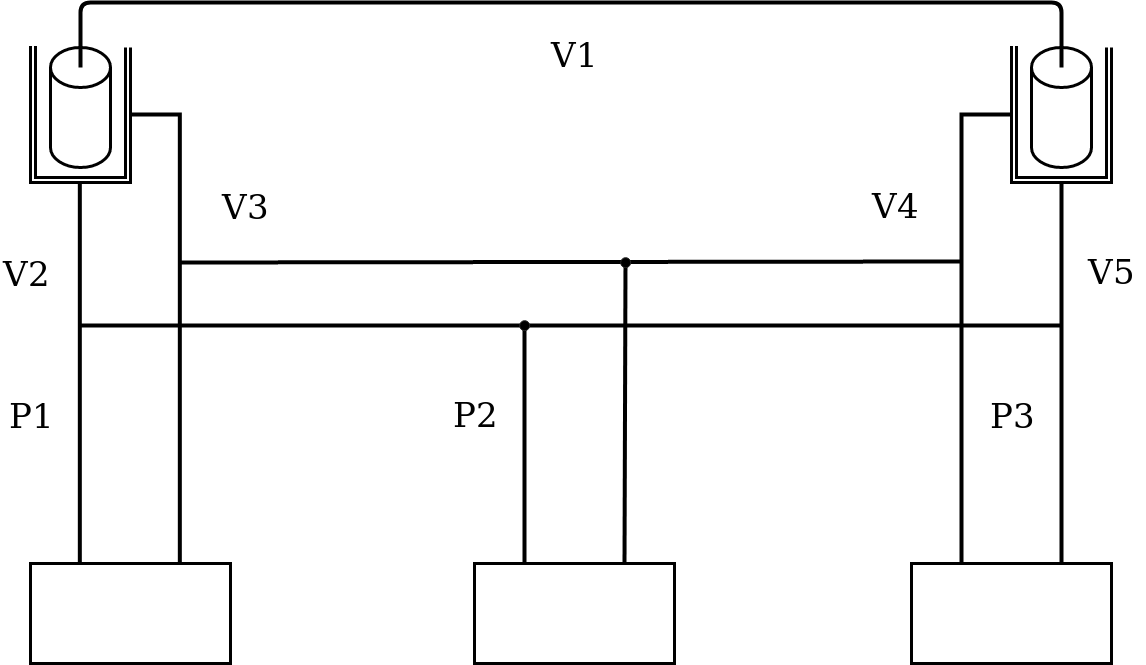
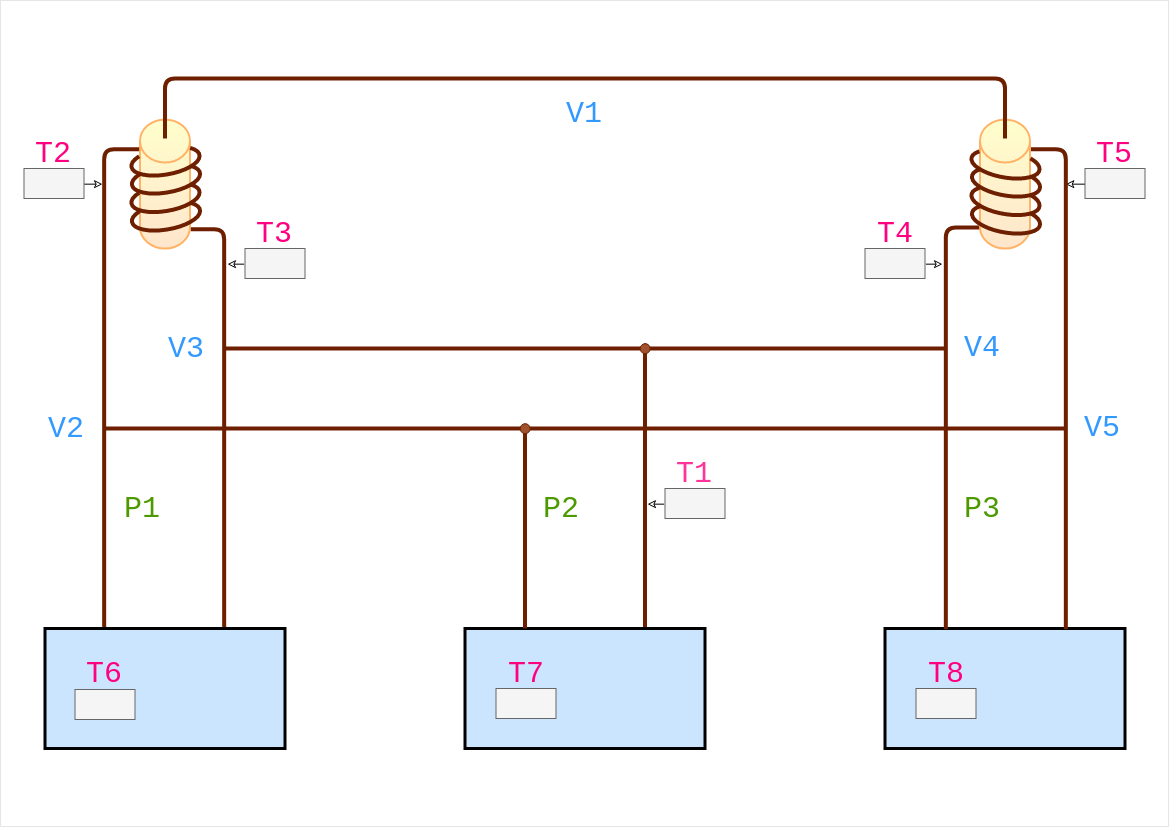
Arrange UI elements on control page

diff --git a/mainapp/static/css/main.css b/mainapp/static/css/main.css
@@ -44,9 +44,9 @@ header h1 {
 }
 
 .tab-content {
-	display: none;
-	padding: 6px 12px;
 	border: none;
+	display: none;
+	margin: 10px;
 }
 
 .tab-content h2 {
@@ -62,15 +62,13 @@ header h1 {
 }
 
 #control {
-	position: relative;
-	text-align: center;
+	padding: 0;
 }
 
 #control #panel {
-	position: absolute;
-	top: 8px;
-	left: 30px;
+	display: block;
 	font-weight: bold;
+	margin: 25px;
 }
 
 #control #panel * {
@@ -79,17 +77,16 @@ header h1 {
 }
 
 #diagram {
-	display: inline-block;
-	position: relative;
-	min-width: 1145px;
-	min-height: 768px;
+	display: block;
+	width: 1169px;
+	height: 828px;
 	background-image: url('/static/images/diagram.png');
 	border: none;
 	background-color: transparent;
 	background-repeat: no-repeat;
-	margin: 25px;
-	margin-top: 100px;
-
+	margin: 0 auto;
+	padding: 0;
+	position: relative;
 }
 
 #experiment-nav {
@@ -200,8 +197,8 @@ header h1 {
 
 .heater {
 	position: absolute;
-	width: 102px;
-	height: 54px;
+	width: 96px;
+	height: 49px;
 	background-image: url('/static/images/heater-off.png');
 }
 
@@ -210,13 +207,13 @@ header h1 {
 }
 
 #h1 {
-	top: 600px;
-	left: 916px;
+	top: 665px;
+	left: 1000px;
 }
 
 #h2 {
-	top: 600px;
-	left: 1011px;
+	top: 665px;
+	left: 1000px;
 }
 .pump {
 	position: absolute;
@@ -230,24 +227,24 @@ header h1 {
 }
 
 #p1 {
-	top: 435px;
-	left: 41px;
+	top: 525px;
+	left: 62px;
 }
 
 #p2 {
-	top: 435px;
+	top: 525px;
 	left: 483px;
 }
 
 #p3 {
-	top: 435px;
-	left: 920px;
+	top: 525px;
+	left: 905px;
 }
 
 #v1 {
 	position: absolute;
-	top: -18px;
-	left: 530px;
+	top: 58px;
+	left: 542px;
 	width: 88px;
 	height: 49px;
 	background-image: url('/static/images/two-way-valve-off.png');
@@ -264,23 +261,23 @@ header h1 {
 }
 
 #v2 {
-	top: 288px;
-	left: 50px;
+	top: 390px;
+	left: 73px;
 }
 
 #v3 {
-	top: 226px;
-	left: 150px;
+	top: 310px;
+	left: 193px;
 }
 
 #v4 {
-	top: 232px;
-	left: 903px;
+	top: 318px;
+	left: 888px;
 }
 
 #v5 {
-	top: 295px;
-	left: 1002px;
+	top: 398px;
+	left: 1008px;
 }
 
 #v2, #v3 {
@@ -308,41 +305,41 @@ header h1 {
 }
 
 #t1 {
-	top: -90px;
-	left: 400px;
+	top: 495px;
+	left: 685px;
 }
 
 #t2 {
-	top: -90px;
-	left: 470px;
+	top: 175px;
+	left: 45px;
 }
 
 #t3 {
-	top: -90px;
-	left: 540px;
+	top: 255px;
+	left: 265px;
 }
 
 #t4 {
-	top: -90px;
-	left: 610px;
+	top: 255px;
+	left: 885px;
 }
 
 #t5 {
-	top: -90px;
-	left: 680px;
+	top: 175px;
+	left: 1105px;
 }
 
 #t6 {
-	top: -90px;
-	left: 750px;
+	top: 695px;
+	left: 95px;
 }
 
 #t7 {
-	top: -90px;
-	left: 820px;
+	top: 695px;
+	left: 515px;
 }
 
 #t8 {
-	top: -90px;
-	left: 890px;
+	top: 695px;
+	left: 935px;
 }

diff --git a/mainapp/templates/main.html b/mainapp/templates/main.html
@@ -103,6 +103,7 @@
 			$('.pump, .valve').click(function(){ 
 				ctrl.toggle_device(this); 
 			} );		
+			//window.onmove =  function(e){ console.log('x: ' + e.x + '  y: ' + e.y); }
 		});
 		</script>
 	</body>
